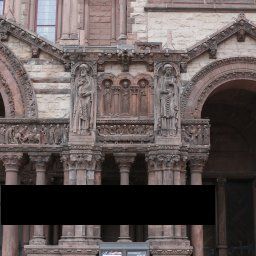
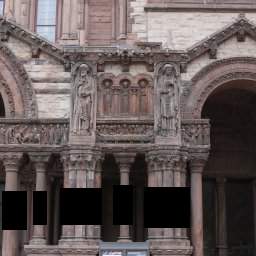
Added Outputs of some Images in Input

diff --git a/code/main.m b/code/main.m
@@ -2,7 +2,7 @@ clc;
 clear all;
 close all;
 tic;
-dir = '../data/dataset/c8';
+dir = '../data/dataset/c46';
 image = imread( sprintf('%s%s',dir,'_input.png'));
 % image =  imgaussfilt(image,2);
 image=rgb2ycbcr(image);
@@ -21,11 +21,11 @@ mask = double(mask);
 % mask = mask > 0; 
 
 
-psi = 4;
-window = 60;
+psi = 10;
+window = 40;
 alpha=255;
 width=3;
-grad_window = 6;
+grad_window = 3;
 f = 1.5;
 
 [rows,cols] = size(mask);
@@ -47,7 +47,7 @@ while 1
     G = grad1(image,3);
     
     %normals 
-    % [Nx, Ny] = gradient(double(~mask));
+    [Nx, Ny] = gradient(double(~mask));
 %     toc;
     for i = 1:n
         x = border_list(i,1);
@@ -55,16 +55,16 @@ while 1
         cp = confidence(psi,x,y,confidence_mat);
         dt = isophote1(x,y,G,grad_window,mask);
         
-        % norm_vector = [Nx(x,y), Ny(x,y)]';
-        % norm_vector = norm_vector/norm(norm_vector);
-        % norm_vector(~isfinite(norm_vector)) = 0;
+        norm_vector = [Nx(x,y), Ny(x,y)]';
+        norm_vector = norm_vector/norm(norm_vector);
+        norm_vector(~isfinite(norm_vector)) = 0;
         
-        norm_vector = norm_vec(border_list,[x,y],width);
+%         norm_vector = norm_vec(border_list,[x,y],width);
         dp = abs(dt'*norm_vector)/alpha;
 %         prio = cp*dp;
-          prio = cp*dp;
-%         prio = [cp,f*dp];
-%         prio = sum(prio);
+%           prio = cp*dp;
+        prio = [cp,f*dp];
+        prio = sum(prio);
 
         priority_mat(x,y) = prio;
         if prio > max_p
